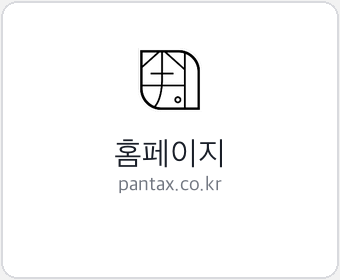
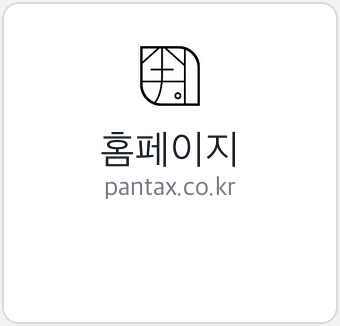
블로그 상단은 로고만 두고, 버튼은 보이는 위젯으로 나눕니다.

diff --git a/assets/blog/widgets.html b/assets/blog/widgets.html
@@ -1,17 +1,16 @@
-<!-- 위젯 직접 등록. 크기 170x163. 레이아웃: 타이틀 → 메뉴 → 1 2 3 4 5 -->
-<!-- 타이틀 높이 300 -->
+<!-- 위젯 직접 등록. 보이는 버튼. 레이아웃: 타이틀(300) → 1 2 3 4 5 → 메뉴 -->
 
-<!-- 1. 회사소개 -->
-<a href="https://pantax.co.kr/about/" target="_top"><img src="https://blogimgs.pstatic.net/nblog/spc.gif" width="170" height="163" border="0" alt="회사소개"></a>
+<!-- 회사소개 -->
+<a href="https://pantax.co.kr/about/" target="_top"><img src="https://pantax.co.kr/assets/blog/btn-about.png" width="170" height="163" border="0" alt="회사소개"></a>
 
-<!-- 2. 세무서비스 -->
-<a href="https://pantax.co.kr/services/" target="_top"><img src="https://blogimgs.pstatic.net/nblog/spc.gif" width="170" height="163" border="0" alt="세무서비스"></a>
+<!-- 세무서비스 -->
+<a href="https://pantax.co.kr/services/" target="_top"><img src="https://pantax.co.kr/assets/blog/btn-service.png" width="170" height="163" border="0" alt="세무서비스"></a>
 
-<!-- 3. 무료서비스 -->
-<a href="https://pantax.co.kr/tools/" target="_top"><img src="https://blogimgs.pstatic.net/nblog/spc.gif" width="170" height="163" border="0" alt="무료서비스"></a>
+<!-- 무료서비스 -->
+<a href="https://pantax.co.kr/tools/" target="_top"><img src="https://pantax.co.kr/assets/blog/btn-tools.png" width="170" height="163" border="0" alt="무료서비스"></a>
 
-<!-- 4. 상담 신청 -->
-<a href="https://pantax.co.kr/consult/" target="_top"><img src="https://blogimgs.pstatic.net/nblog/spc.gif" width="170" height="163" border="0" alt="상담 신청"></a>
+<!-- 상담 신청 -->
+<a href="https://pantax.co.kr/consult/" target="_top"><img src="https://pantax.co.kr/assets/blog/btn-consult.png" width="170" height="163" border="0" alt="상담 신청"></a>
 
-<!-- 5. 홈페이지 -->
-<a href="https://pantax.co.kr/" target="_top"><img src="https://blogimgs.pstatic.net/nblog/spc.gif" width="170" height="163" border="0" alt="홈페이지"></a>
+<!-- 홈페이지 -->
+<a href="https://pantax.co.kr/" target="_top"><img src="https://pantax.co.kr/assets/blog/btn-home.png" width="170" height="163" border="0" alt="홈페이지"></a>
